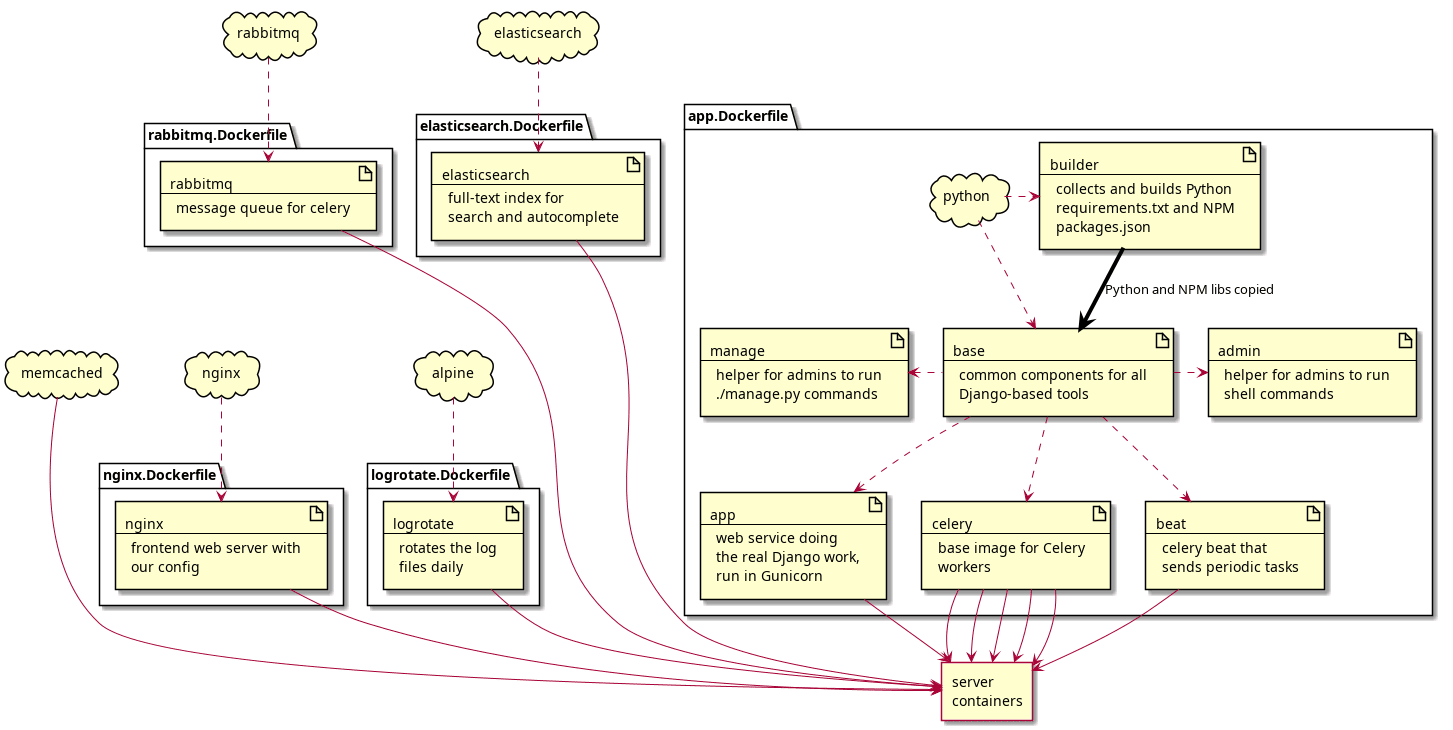
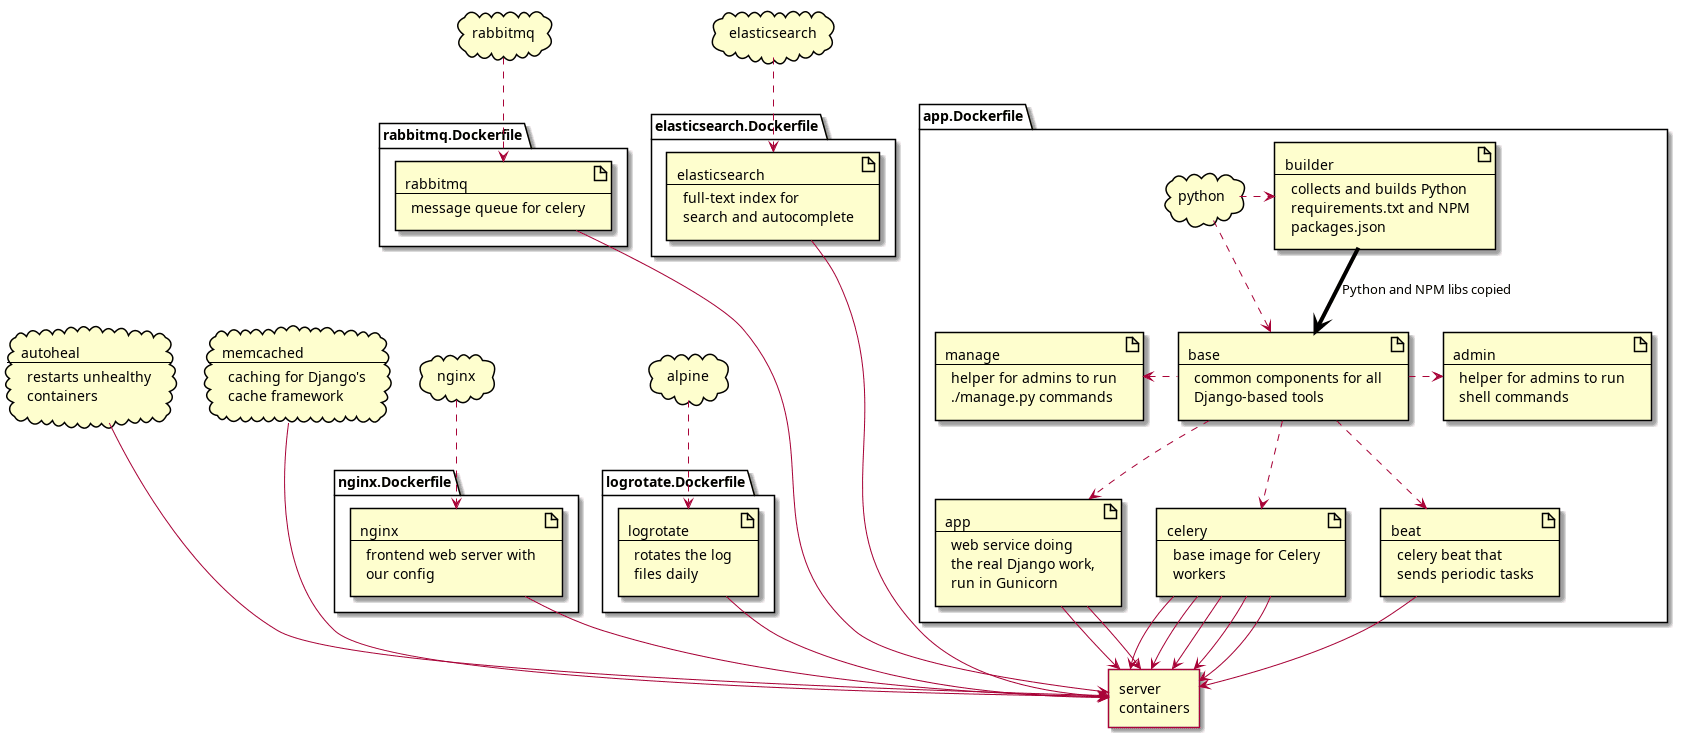
add autoheal container to restart others if unhealthy

diff --git a/instructions/SYSADMIN.md b/instructions/SYSADMIN.md
@@ -22,6 +22,7 @@ The services running in production are either docker containers (configured in `
 * ElasticSearch: used for the site search and autocomplete (through the Django haystack library).
 * Memcached: temporary caching (through the Django caching framework).
 * Logrotate: a little container rotating the nginx logs.
+* Autoheal: a tool that watches other Docker containers. If they become "unhealthy" they are restarted.
 
 See `arch.png` for that in diagram form. Or `dockerfiles.png` for an overview of how the containers get built.
 
